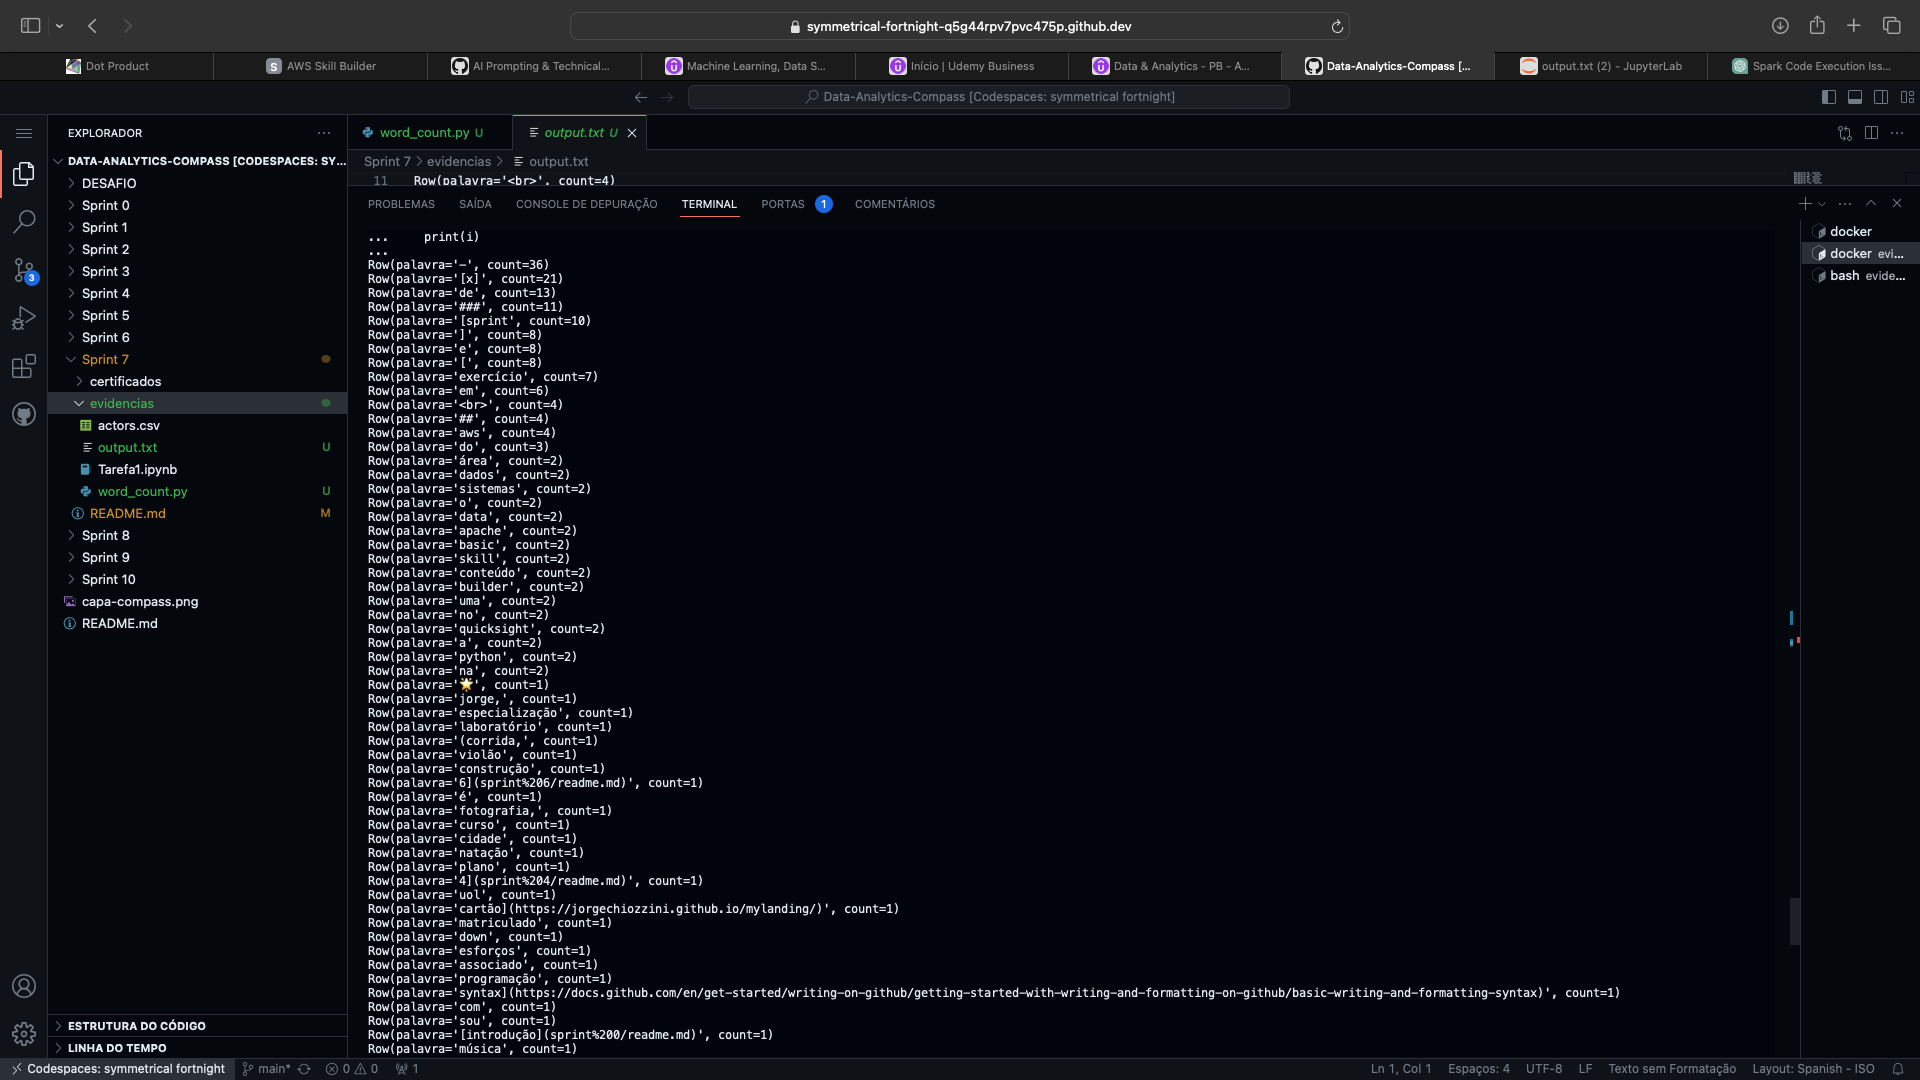
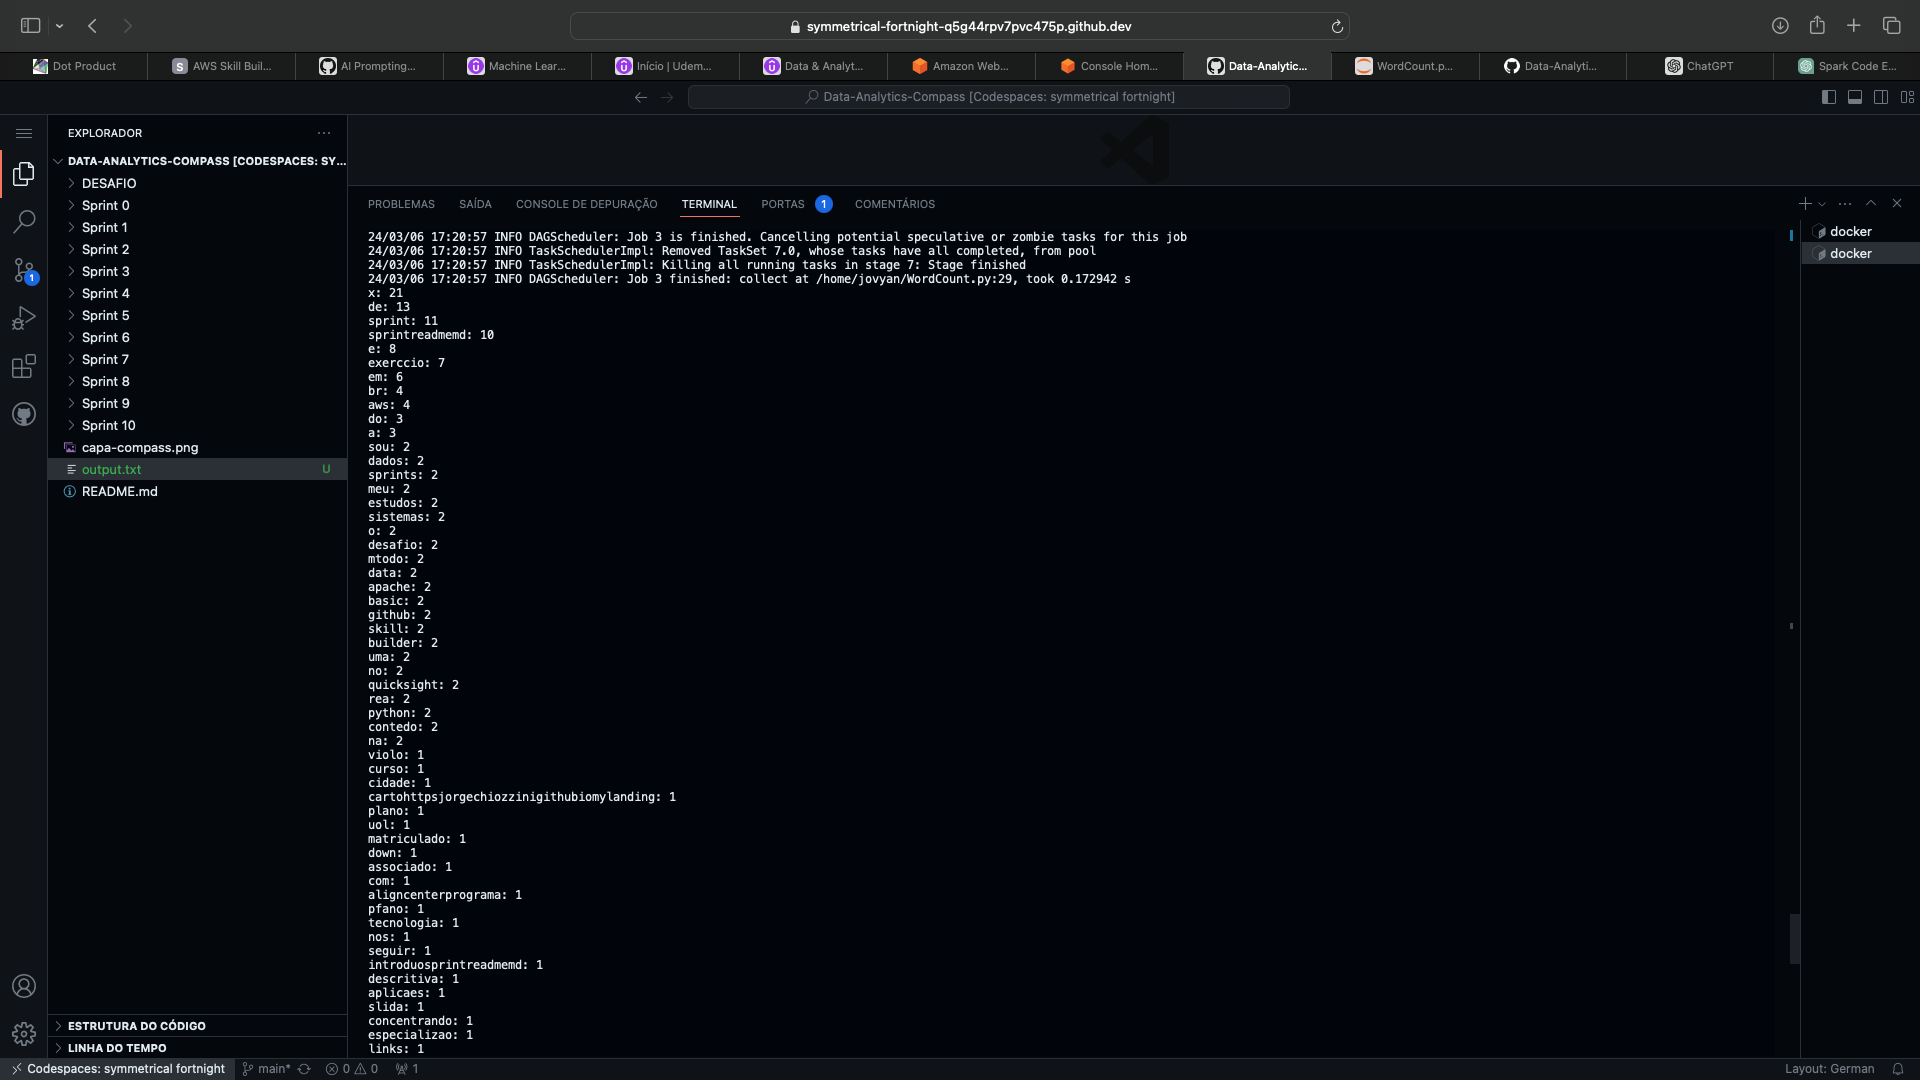
correção sprint 7

diff --git a/Sprint 7/evidencias/Tarefa2.md b/Sprint 7/evidencias/Tarefa2.md
@@ -84,6 +84,14 @@ $ docker cp 9a1c9f8e76b5:/home/jovyan/output.txt .
 
 - [output.txt](output.txt)
 
+```
+$ docker exec -it e7075b2a475d bash
+```
+```
+spark-submit WordCount.py 
+```
+
+
 <img src="terminal.png" alt="Texto Alternativo" width="1000">
 
 
